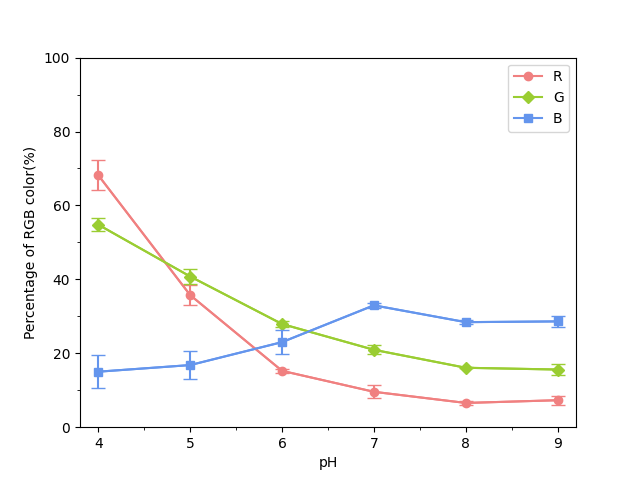
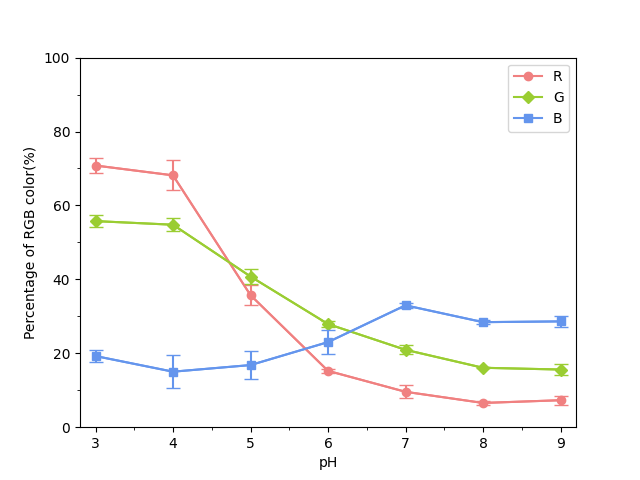
ph3

diff --git a/calibration_curve.py b/calibration_curve.py
@@ -50,10 +50,10 @@ def comparison(images):
   """Display the result of comparison and the RGB value of each one."""
   # Remove background
   processed_images = []
-  for i in range(0, 6):
+  for i in range(0, 7):
     processed_images.append([ip.remove_background(j, ip.preprocess(j)) for j in images[i]])
   # Show RGB values
-  pHs = [4, 5, 6, 7, 8, 9]
+  pHs = [3, 4, 5, 6, 7, 8, 9]
   rgb = []
   sd = []
   for i in processed_images:
@@ -76,11 +76,11 @@ def comparison(images):
   p3 = plt.plot(pHs, blue, color="cornflowerblue", marker="s")
   plt.errorbar(pHs, blue, blue_sd, color="cornflowerblue", capsize=5)
   # Color bars
-  # plt.bar(pHs, [100] * 6, width=0.1, color=[(i[0]/100, i[1]/100, i[2]/100, 0.2) for i in rgb])
+  # plt.bar(pHs, [100] * 7, width=0.1, color=[(i[0]/100, i[1]/100, i[2]/100, 0.2) for i in rgb])
   # Add legends
   plt.legend((p1[0], p2[0], p3[0]), ("R", "G", "B"), loc='upper right')
   # Axis range
-  plt.axis([3.8, 9.2, 0, 100])
+  plt.axis([2.8, 9.2, 0, 100])
   plt.gca().xaxis.set_major_locator(MaxNLocator(integer=True))
   plt.gca().xaxis.set_minor_locator(MultipleLocator(0.5))
   plt.gca().yaxis.set_minor_locator(MultipleLocator(10))
@@ -90,7 +90,7 @@ def comparison(images):
 
 def main():
   images = []
-  for i in range(4, 10):
+  for i in range(3, 10):
     images.append(load_images('calibration curve//' + str(i)))
   comparison(images)
 
